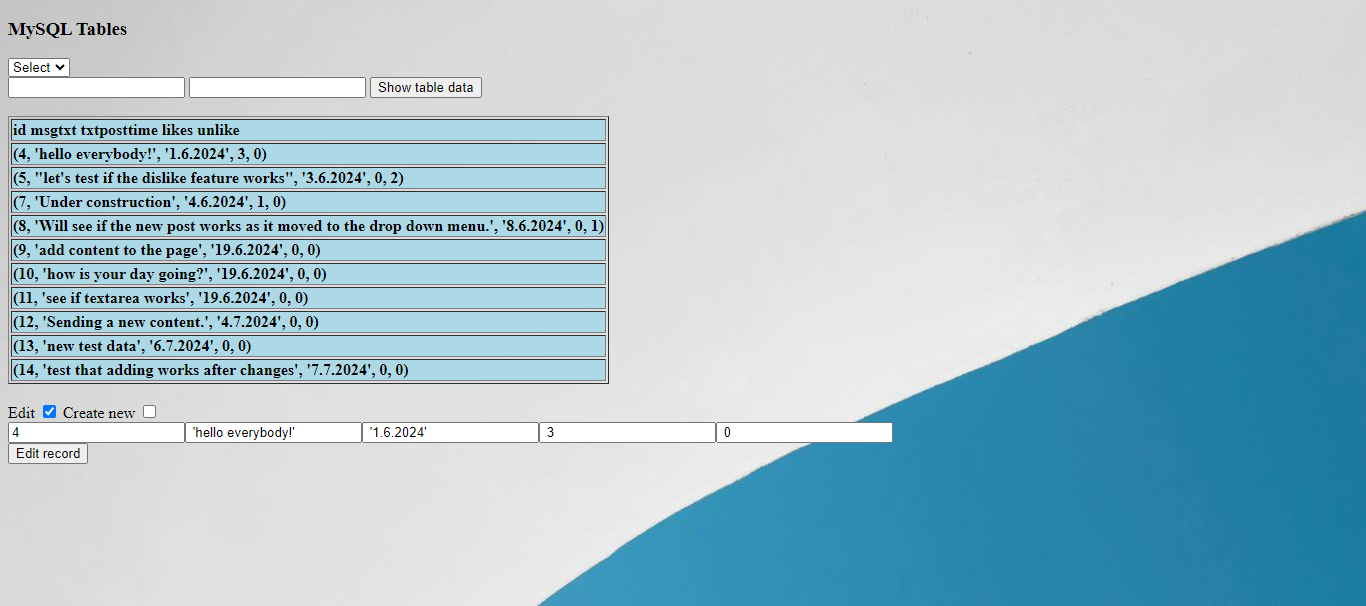
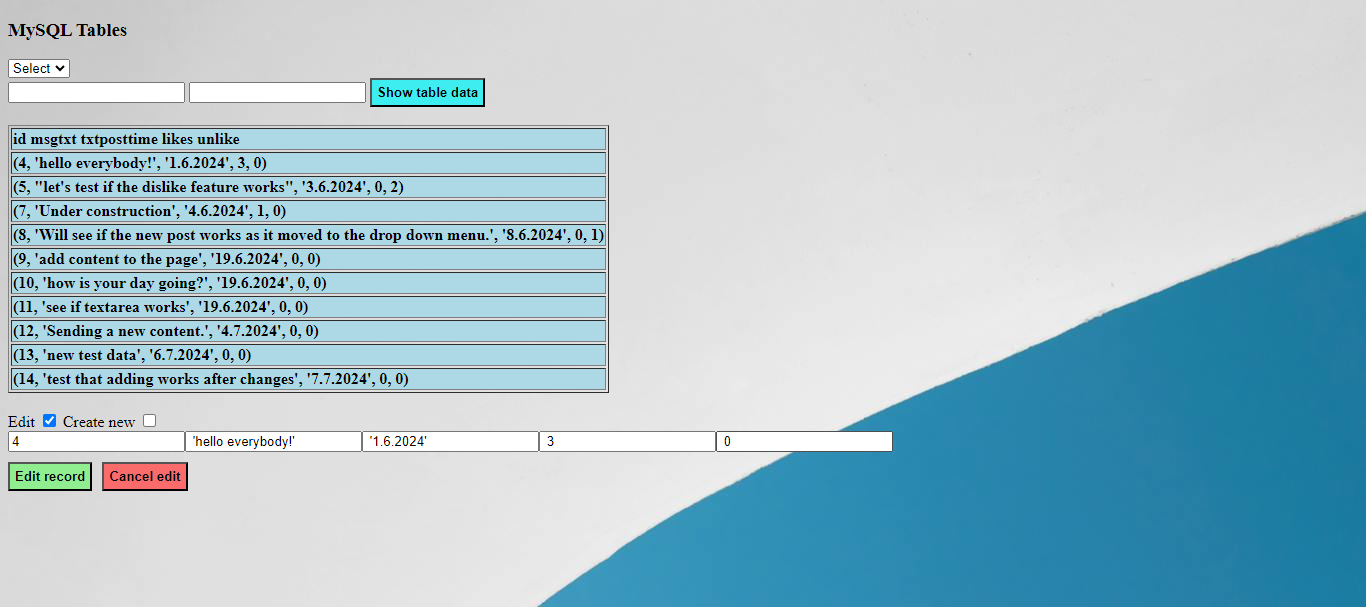
fixes to script.js and mysqlscript.js files and new css definitions added

diff --git a/static/js/mysqlScripts.js b/static/js/mysqlScripts.js
@@ -5,8 +5,13 @@ function createMySqlFields(textToArray) {
     var fieldsInt = parseInt(fields)
     var linebreak = document.createElement("br");
     var editBtn=document.createElement("BUTTON")
+    editBtn.setAttribute("class","editBtn")
     editBtn.textContent="Edit record"
-   
+    var cancelBtn = document.createElement("BUTTON")
+    cancelBtn.textContent="Cancel edit"
+    cancelBtn.setAttribute("class","cancelBtn")
+    //yhdistetään eventlistenerillä klikkaus ja suoritettava funktio
+    cancelBtn.addEventListener("click",cancelEdit)
     var cb = document.getElementById("edit")
     if (cb.checked==true)
     {
@@ -16,7 +21,12 @@ function createMySqlFields(textToArray) {
             var inputField=document.createElement("INPUT")
             inputField.id=i
             document.getElementById("crudArea").appendChild(inputField)
+            
         }
+        document.getElementById("crudArea").appendChild(linebreak)
+       
+        
+       
         
         //lisätään syötekenttien arvoksi tietokannassa olevat arvot
         //eli esim. login taulusta id, username psw ja email. j on kierrosmuuttuja
@@ -28,29 +38,43 @@ function createMySqlFields(textToArray) {
           
         }
         document.getElementById("crudArea").appendChild(linebreak)
+        document.getElementById("crudArea").appendChild(linebreak)
         document.getElementById("crudArea").appendChild(editBtn)
+        
+        document.getElementById("crudArea").appendChild(cancelBtn)
         
     }
         
 }
 
 function createFieldsToNew() {
+    var cbNew = document.getElementById("newrecord")
     var fields = document.getElementById("fields").innerHTML
     var fieldsInt = parseInt(fields)
     var fieldnames=document.getElementById("fieldnames").innerHTML
     var splitNames = fieldnames.split(" ")
     console.log(splitNames)
-    for (var i = 0;i<fieldsInt;i++)
-        {
-            var inputField=document.createElement("INPUT")
-            inputField.id=i
-            document.getElementById("crudArea").appendChild(inputField)
-        }
-        for (var j=0;j<fieldsInt;j++)
+    if (cbNew.checked==true) {
+        //syötekentät
+        for (var i = 0;i<fieldsInt;i++)
             {
-                document.getElementById(j).placeholder=splitNames[j]
-              
+                var inputField=document.createElement("INPUT")
+                inputField.id=i
+                document.getElementById("crudArea").appendChild(inputField)
             }
+            //placeholderit syötekenttiin
+            for (var j=0;j<fieldsInt;j++)
+                {
+                    document.getElementById(j).placeholder=splitNames[j]
+                  
+                }
+
+    }
+    //jos checboksi ei ole valittu, niin crudarea divin sisältö muutetaan tyhjäksi
+    else {
+        document.getElementById("crudArea").innerHTML=""
+    }
+  
         
 
 }

diff --git a/templates/selectCol.html b/templates/selectCol.html
@@ -8,6 +8,7 @@
   <script type="text/javascript" src="{{ url_for('static', filename = 'js/scripts.js') }}"></script>
   <script type="text/javascript" src="{{ url_for('static', filename = 'js/WordSearch.js') }}"></script>
   <script type="text/javascript" src="{{ url_for('static', filename = 'js/DynamicCreate.js') }}"></script>
+  
 </head>
 
 <body class="formPageBody">
@@ -39,21 +40,6 @@
 
   </select>
 
-
-  <script>
-
-
-
-    function GetSelectionFromSelect(sel) {
-      var path = localStorage.getItem('db')
-      //alert(sel.options[sel.selectedIndex].text);
-      document.getElementById("path").innerHTML = path + "/" + sel.options[sel.selectedIndex].text
-      document.getElementById("colname").value = sel.options[sel.selectedIndex].text
-      document.getElementById("DBpath").value = path
-    }
-  </script>
-
-
   <p id="path" class="path"></p>
 
 
@@ -63,12 +49,12 @@
    
 
     <input hidden type="text" name="DBpath" id="DBpath"> 
-    <input type="text" name="DBlimit" id="DBlimit" placeholder="Number of records or keyword">
+    <input hidden type="text" name="DBlimit" id="DBlimit" placeholder="Number of records or keyword">
 
     <button>Show</button>
     <!--DBkeyslist sisältää mongo-kokoelman kenttien nimet-->
     
-    <select name="fieldNames" id="fieldNames" onchange="getSelectedFieldName(this)">
+    <select hidden name="fieldNames" id="fieldNames" onchange="getSelectedFieldName(this)">
       {% for d in dbKeysList %}
       <option value="{{d}}">{{d}}</option>
       {%endfor%}
@@ -130,8 +116,14 @@
 <!--showdata muuttujan alkuarvo on false, jolloin ei näytetä allaolevaa html-koodia, funktiossa show_data
 arvo muuttuu trueksi ja allaoleva näytetään if/else ehtojen mukaisesti-->
 {% if showdata==True %}
+<script>
+  document.getElementById("DBlimit").hidden=false
+  
+  document.getElementById("fieldNames").hidden=false
+</script>
 <h4>Delete document</h4>
 <p>Object id:</p>
+
 
 
 <form action="{{ url_for('cruds.delRecord')}}" method="post">

diff --git a/static/js/scripts.js b/static/js/scripts.js
@@ -1,5 +1,6 @@
 var clicks=0
 
+var isSelected = false
 
 
 
@@ -176,10 +177,24 @@ function removeTable() {
         table.innerHTML=originalText
 
       }
-      
-
     }
- 
+    
+    function GetSelectionFromSelect(sel) {
+      
+      var path = localStorage.getItem('db')
+      //alert(sel.options[sel.selectedIndex].text);
+      document.getElementById("path").innerHTML = path + "/" + sel.options[sel.selectedIndex].text
+      document.getElementById("colname").value = sel.options[sel.selectedIndex].text
+      document.getElementById("DBpath").value = path
+      
+   
+    }
+
+    function cancelEdit() {
+      document.getElementById("crudArea").innerHTML=""
+      document.getElementById("edit").checked=false
+    }
+    
 
 
   

diff --git a/static/css/styles.css b/static/css/styles.css
@@ -104,3 +104,21 @@ white-space: nowrap;
     font-weight: bold;
     background-color: lightblue;
 }
+.cancelBtn {
+    font-weight: bolder;
+    padding: 5px;
+    background-color: #fa6b6b;
+}
+.editBtn {
+    font-weight: bolder;
+    margin-top:10px;
+    margin-right: 10px;
+    padding: 5px;
+    background-color: lightgreen;
+}
+.showBtn {
+    font-weight: bolder;
+  
+    padding: 5px;
+    background-color: #3eedf0
+}

diff --git a/templates/mysql.html b/templates/mysql.html
@@ -23,7 +23,7 @@
             <form action="{{ url_for('mysqlScripts.readTableData')}}" method="post">
             <input type="text" name="selectedTable" id="selectedTable">
             <input type="text" name="dbname" id="dbname" value="{{dbname}}">
-            <button>Show table data</button>
+            <button class="showBtn">Show table data</button>
         </form>
         <br>
       
